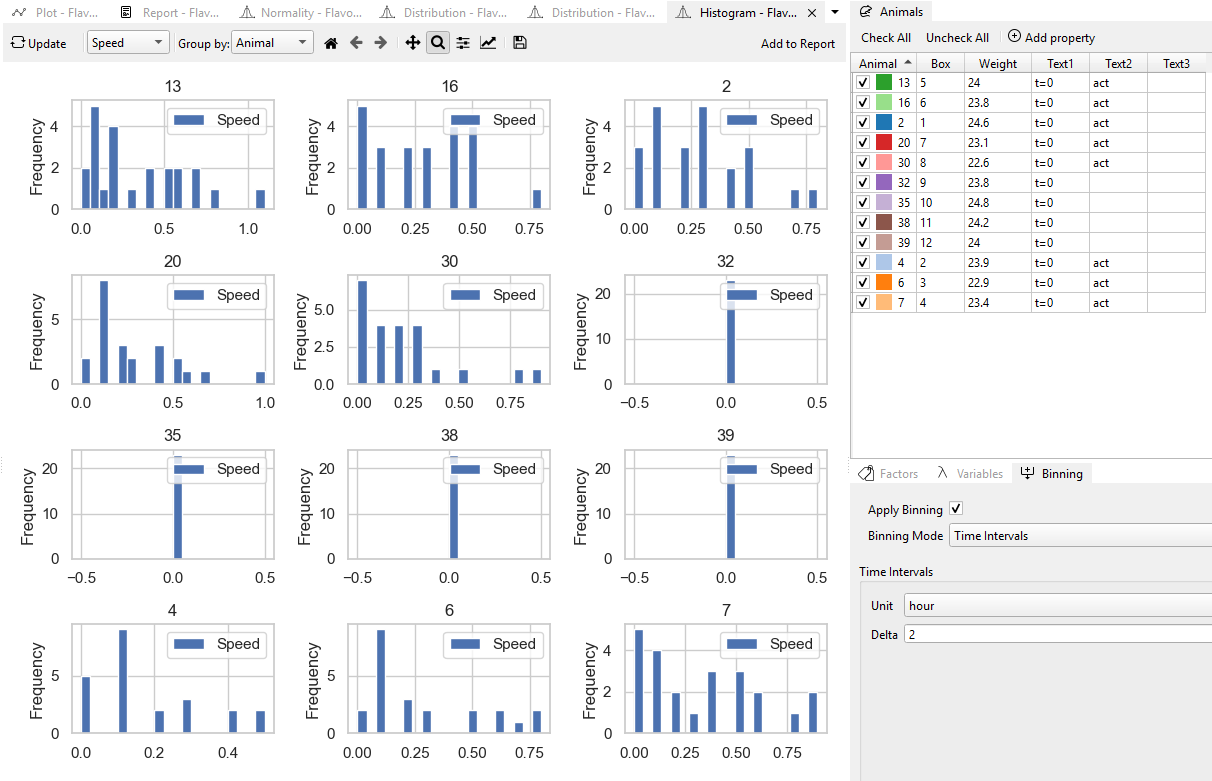
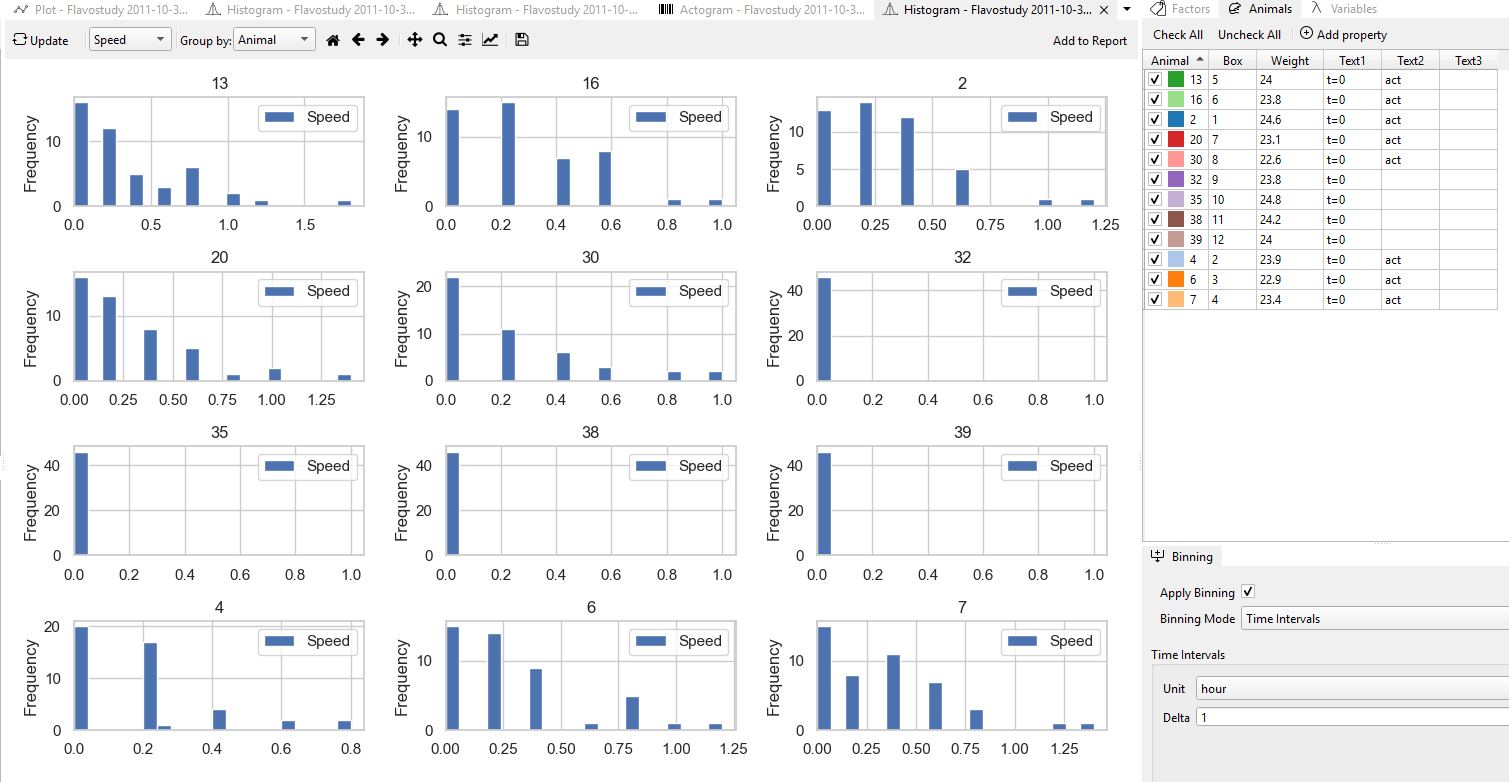
Updated section of Normality, added the example interpretation for Histogram and Normality

Changed region(s): [[0.0, 0.0, 1.0, 0.9834], [0.7632, 0.8297, 0.8243, 0.9219]]

diff --git a/Writerside/topics/Normality.md b/Writerside/topics/Normality.md
@@ -1,6 +1,8 @@
 # Normality
 
-Normal probability plots (normality plots) can be generated in the Exploration widget by selecting the **Plot type ‘Normality’** to test for normal distribution of data sets.
+The Normality feature allows researchers to assess whether data follow a normal distribution, which is a key assumption for many statistical tests such as t-tests and ANOVA.
+
+In TSE Analytics, **Normality** can be explored under the **Exploration** widget. Visualization tools, including **Normality plot**, help illustrate the data distribution and evaluate deviations from normality across groups, providing guidance for the selection of appropriate statistical methods.
 
 ![Normality widget.png](Normality widget.png)
 
@@ -12,10 +14,33 @@ In addition, normality plots contain a ‘best-fit’ line resulting from linear
 
 The appearance of the 45° line, regression line and confidence band of the normality plot can be customized by using the Curves tab implemented in the Figure options window accessed via the **‘Customize’** tool (‘Graph’ symbol) in the plot menu. Here, the style, width and color of lines can be adjusted, and markers can be added or customized.
 
-![Figure: Curve tab in the figure options window of the normality plot](plot-customization-2.png)
+![Figure: Customized the plot](Customized the plot.png)
 
 The lines to be customized can be selected from the dropdown menu at the top of the Curves tab:
 - _child1: 45° line
 - _child2: Regression line
 - _child4: Upper bound of the confidence band
 - _child5: Lower bound of the confidence band
+
+## Example Interpretation
+
+![Figure: Normality Example](Normality Example.png)
+
+The Normality function tests whether a dataset follows a normal distribution, a key assumption for many statistical analyses such as t-tests, ANOVA, and linear models.
+
+The figure below shows a **Normal plot** for the variable **CenA** (total X and Y beam interruptions for central ambulatory movement) recorded by the PhenoMaster system.
+
+In this plot:
+
+- The **x-axis** shows the theoretical quantiles expected from a perfectly normal distribution.
+- The **y-axis** shows the actual ordered quantiles of the observed CenA values from the experiment.
+- Each **blue dot** represents one data point in the dataset.
+- The **solid red line** is the best-fit regression line through the data points.
+- The **gray diagonal (45°) line** represents the ideal case of perfect normality (i.e., theoretical = observed).
+- The **red dashed lines** show the 95% confidence band.
+
+If the blue points closely follow the 45° line, the data can be considered approximately normally distributed.
+
+In this example, the CenA data points align closely with the 45° line and fall mostly within the confidence band. The coefficient of determination (**R² = 0.943**) further indicates a strong linear relationship between theoretical and observed quantiles. Therefore, the CenA variable can be considered approximately normal.
+
+As a result, **parametric statistical tests**, such as the paired t-test or ANOVA are appropriate for this dataset.

diff --git a/Writerside/topics/Histogram.md b/Writerside/topics/Histogram.md
@@ -16,7 +16,8 @@ This histogram showing the distribution of animal speeds, with speed in (cm/s) o
 
 On this representative example, we can observe that animals No. 32, 35, 38, and 39 show peaks near 0 cm/s, indicating that they remained mostly inactive during the observation period. In contrast, animals No. 6, 7, and 13 show a wider range of speed values, suggesting a higher level of locomotor activity.
 
-> **Note**: In TSE Analytics, histogram bars are displayed with equal visual width because the software divides the total range into fixed value intervals (bins).
-When data points per bin are low, the auto-scaling of the Y-axis may make all bars appear similar in height, even though the underlying frequencies differ.
-Users should interpret bar height using the numeric scale on the Y-axis, not by visual comparison alone.
+![Customized the axis ranges.png](Cutomized the axis ranges.png)
+
+> **Note**: In TSE Analytics, histograms are plotted with X- and Y-axis ranges automatically adjusted based on the data's minimum and maximum values. As a result, different histograms may have different scales,for example, one speed range might be 0.0–1.6, while another is only 0.0–0.8.
+This ensures that each plot accurately reflects the distribution of its data. Users should interpret bar heights according to the axis values, rather than by visual comparison alone. If desired, users can also manually adjust the axis ranges.
 {style = 'note'}

diff --git a/Writerside/topics/Bivariate-widget.md b/Writerside/topics/Bivariate-widget.md
@@ -2,7 +2,7 @@
 
 To analyze the relationship between two variables, **Correlation** and **Regression** analysis can be performed in the *Bivariate* widget of TSE Analytics.
 
-![Figure: Bivariate widgets](bivariate-widgets.png)
+![Figure: Bivariate widget.png](Bivariate widget.png)
 
 - Two variables of interest can be selected from the dropdown menus **“X”** and **“Y”**. 
 - The type of analysis (**Correlation** or **Regression**) can be selected under **Bivariate**. 
@@ -13,7 +13,7 @@ Both plots and analysis results displayed are added to the report upon clicking 
 
 ![Figure: Bivariate widgets settings](bivariate-widgets-settings.png)
 
-> **Warning**: Only animals selected in the Animal list are considered for the calculation of correlation and regression analysis in the Bivariate widget.
+> **Important**: Only animals selected in the Animal list are considered for the calculation of correlation and regression analysis in the Bivariate widget.
 > Changes regarding the selection of animals are only applied after clicking **Update**.
 {style = 'warning'}
 

diff --git a/Writerside/topics/Correlation.md b/Writerside/topics/Correlation.md
@@ -3,7 +3,7 @@
 **Correlation** analysis in TSE Analytics can be performed to determine the degree to which two selected variables X and Y are linearly related using the Pearson correlation coefficient.
 Results of a correlation analysis performed in TSE Analytics are displayed as a scatter plot for all data pairs included in the analysis, individual density plots or histograms (for split mode ‘Total’) for each variable, the Pearson correlation coefficient together with associated statistical parameters, as well as t test statistics comparing X and Y variable.
 
-![Figure: Correlation command](correlation-command.png)
+![Figure: Correlation widget](Correlation widget.png)
 
 ## Correlation plots
 

diff --git a/Writerside/topics/Regression.md b/Writerside/topics/Regression.md
@@ -3,7 +3,7 @@
 Linear regression analysis (**“Regression”**) can be performed in TSE Analytics to investigate the relationship between an independent variable (**Covariate**) and a dependent variable (**Response**).
 Results of a regression analysis performed in TSE Analytics are displayed as a regression plot and linear regression results in the GLM (Generalized Linear Model) table.
 
-![Figure: Regression window](regression-command.png)
+![Figure: Regression widget](Regression widget.png)
 
 ## Regression plot
 
